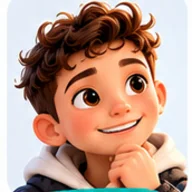
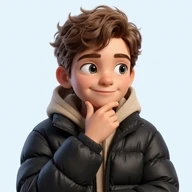
Guia grátis por e-mail (MailerLite), políticas atualizadas e retratos novos da Turminha
- /livro/: formulário do guia envia ao MailerLite; download sem cadastro continua; aceite separado
- Políticas do livro e do site citam o MailerLite
- Retratos novos de Caio, Vinícius e Letícia (jogo v4.5)

diff --git a/livro/index.html b/livro/index.html
@@ -56,7 +56,8 @@
 <p style="margin: 0; font-size: 14px; color: #3D4F66">Acesso imediato no Pix e no cartão · PDF e EPUB · Garantia de 7 dias</p>
 </div>
 <!-- Espaço do vídeo de vendas (VSL): decisão do Rodrigo em 17/11, "tirar até gravar". Até o vídeo chegar, fica só a capa.
-     Quando o vídeo existir: voltar o bloco do vídeo (cópia em referencia/index-antes-da-revisao.html) e o título "Assista antes de decidir" -->
+     Quando o vídeo existir: voltar o bloco do vídeo (cópia em referencia/index-antes-da-revisao.html) e o título "Assista antes de decidir".
+     O bloco do vídeo leva id="video" e scroll-margin-top: 24px (pedido da Mídia paga: o anúncio da VSL abre /livro/?...&utm_content=vsl#video) -->
 <div class="h-video" style="width: 100%; max-width: 880px; display: flex; justify-content: center; margin-top: 6px">
 <img src="assets/capa-ebook.webp" width="600" height="900" fetchpriority="high" alt="Capa do livro O futuro financeiro do seu filho começa com você" style="width: min(70%, 260px); height: auto; display: block; border-radius: 8px; box-shadow: 0 16px 32px rgba(9, 39, 77, 0.3)">
 </div>
@@ -350,15 +351,16 @@
 <label style="flex: 1 1 180px; min-width: 0; display: flex; flex-direction: column; gap: 6px; font-size: 14px; font-weight: 600">Seu nome<input type="text" name="nome" autocomplete="given-name" style="font: inherit; font-size: 16px; padding: 14px 16px; border: 1.5px solid #09274D; border-radius: 12px; background: #FFFFFF; color: #09274D; min-height: 50px; box-sizing: border-box; width: 100%"></label>
 <label style="flex: 2 1 240px; min-width: 0; display: flex; flex-direction: column; gap: 6px; font-size: 14px; font-weight: 600">Seu melhor e-mail<input type="email" name="email" autocomplete="email" style="font: inherit; font-size: 16px; padding: 14px 16px; border: 1.5px solid #09274D; border-radius: 12px; background: #FFFFFF; color: #09274D; min-height: 50px; box-sizing: border-box; width: 100%"></label>
 </div>
-<label style="display: flex; gap: 12px; align-items: flex-start; font-size: 14px; line-height: 1.5; color: #3D4F66; padding: 6px 0; cursor: pointer"><input type="checkbox" name="consentimento" style="width: 24px; height: 24px; margin: 0; flex: none; accent-color: #09274D"><span>Tenho 18 anos ou mais e aceito receber e-mails do Missão Dinheiro Club, conforme a <a href="politica-de-privacidade.html" target="_blank" rel="noopener">política de privacidade</a>. Posso cancelar quando quiser.</span></label>
+<label style="display: flex; gap: 12px; align-items: flex-start; font-size: 14px; line-height: 1.5; color: #3D4F66; padding: 6px 0; cursor: pointer"><input type="checkbox" name="consentimento" style="width: 24px; height: 24px; margin: 0; flex: none; accent-color: #09274D"><span>Tenho 18 anos ou mais e quero receber o guia e e-mails do Missão Dinheiro Club, conforme a <a href="politica-de-privacidade.html" target="_blank" rel="noopener">política de privacidade</a>. Posso cancelar quando quiser.</span></label>
 <div id="lead-error-wrap" hidden><p role="alert" style="margin: 0; font-size: 14px; font-weight: 600; color: #B42318" data-bind="leadError"></p></div>
-<button type="submit" style="align-self: flex-start; font: inherit; font-weight: 700; font-size: 17px; background: #FFC12E; color: #09274D; border: none; border-radius: 999px; padding: 16px 30px; min-height: 54px; cursor: pointer; display: inline-flex; align-items: center; gap: 10px"><svg width="20" height="20" viewBox="0 0 24 24" fill="none" stroke="#09274D" stroke-width="2.4" stroke-linecap="round" stroke-linejoin="round" aria-hidden="true"><path d="M12 4v11M7 10l5 5 5-5M5 20h14"/></svg>Quero baixar o guia grátis</button>
+<button type="submit" style="align-self: flex-start; font: inherit; font-weight: 700; font-size: 17px; background: #FFC12E; color: #09274D; border: none; border-radius: 999px; padding: 16px 30px; min-height: 54px; cursor: pointer; display: inline-flex; align-items: center; gap: 10px"><svg width="20" height="20" viewBox="0 0 24 24" fill="none" stroke="#09274D" stroke-width="2.4" stroke-linecap="round" stroke-linejoin="round" aria-hidden="true"><path d="M12 4v11M7 10l5 5 5-5M5 20h14"/></svg>Receber o guia por e-mail</button>
 </form>
+<p id="lead-alt" style="margin: 14px 0 0; font-size: 15px; color: #3D4F66">Prefere só baixar, sem cadastro? <a href="assets/guia-gratuito-3-descobertas.pdf" download data-guia style="color: #09274D; font-weight: 600">Baixar o PDF</a></p>
 </div>
 <div id="lead-sent" hidden>
 <div role="status" style="background: #E6F7F7; border-radius: 18px; padding: 22px 24px; display: flex; flex-direction: column; gap: 12px">
 <p style="margin: 0; font-family: Nunito, sans-serif; font-weight: 800; font-size: 22px; color: #09274D">Pronto, <span data-bind="firstName"></span>! Seu guia está liberado.</p>
-<p id="lead-sent-copy" style="margin: 0; font-size: 16px; line-height: 1.55; color: #24384F">Também enviamos uma cópia para <strong data-bind="leadEmail"></strong>. Se não aparecer, confira a caixa de spam ou promoções.</p>
+<p id="lead-sent-copy" style="margin: 0; font-size: 16px; line-height: 1.55; color: #24384F">Também enviamos o guia para <strong data-bind="leadEmail"></strong>. Se ele não chegar em alguns minutos, confira a caixa de spam ou promoções.</p>
 <a href="assets/guia-gratuito-3-descobertas.pdf" download data-guia style="align-self: flex-start; background: #09274D; color: #FFFFFF; text-decoration: none; font-weight: 700; font-size: 16px; padding: 14px 24px; border-radius: 999px; min-height: 50px; box-sizing: border-box; display: inline-flex; align-items: center">Baixar o PDF agora</a>
 </div>
 </div>

diff --git a/livro/politica-de-privacidade.html b/livro/politica-de-privacidade.html
@@ -21,7 +21,7 @@ a{color:#09274D} .aviso{background:#FFC12E;color:#09274D;font-weight:700;padding
 <main>
 <a class="voltar" href="index.html">Voltar ao site</a>
 <h1>Política de privacidade</h1>
-<p><em>Última atualização: 17 de novembro de 2026</em></p>
+<p><em>Última atualização: 18 de novembro de 2026</em></p>
 <h2>1. Quem somos</h2>
 <p>Este site é do projeto Missão Dinheiro Club, de Rodrigo Brito da Silva Santos, que é o controlador dos dados pessoais coletados aqui.</p>
 <p>Contato para assuntos de privacidade:</p>
@@ -30,7 +30,7 @@ a{color:#09274D} .aviso{background:#FFC12E;color:#09274D;font-weight:700;padding
 </ul>
 <h2>2. Quais dados coletamos</h2>
 <ul>
-<li><strong>Guia gratuito:</strong> é baixado direto, sem cadastro. Se um dia passarmos a pedir e-mail, esta política será atualizada antes.</li>
+<li><strong>Guia gratuito e e-mails:</strong> o guia pode ser baixado sem cadastro. Se você preferir recebê-lo por e-mail, pedimos o e-mail e, se quiser, o primeiro nome, com o seu consentimento (a caixa vem desmarcada) e a confirmação de que você tem 18 anos ou mais.</li>
 <li><strong>Compra:</strong> os dados de pagamento e de cadastro são coletados e tratados pela plataforma de pagamento Hotmart, conforme a política de privacidade dela. Nós recebemos apenas o necessário para entregar o produto e prestar suporte, como nome, e-mail e o produto comprado.</li>
 <li><strong>Navegação:</strong> dados técnicos e de uso, como páginas visitadas, tipo de aparelho e origem da visita, pelo Google Analytics 4, só se você aceitar no aviso de cookies. Os recursos de anúncios do Google ficam desligados. Detalhes na página de <a href="../privacidade/">privacidade do site</a>.</li>
 <li><strong>Origem da visita:</strong> Se você chega por um link de divulgação (com "utm" no endereço), o site guarda nesta aba do navegador só o canal, como "google", "meta" ou "organico", e o envia à Hotmart no link de compra, para sabermos de onde vêm as vendas. Não é cookie, não identifica você e é apagado quando a aba é fechada.</li>
@@ -40,6 +40,7 @@ a{color:#09274D} .aviso{background:#FFC12E;color:#09274D;font-weight:700;padding
 <ul>
 <li>Entregar o produto comprado e prestar suporte, para cumprir o contrato.</li>
 <li>Medir e melhorar o site, com o seu consentimento.</li>
+<li>Enviar o guia e uma sequência curta de e-mails sobre educação financeira e o livro, com o seu consentimento. Todo e-mail tem um link para sair da lista.</li>
 <li>Cumprir obrigações legais.</li>
 </ul>
 <h2>4. Com quem compartilhamos</h2>
@@ -47,6 +48,7 @@ a{color:#09274D} .aviso{background:#FFC12E;color:#09274D;font-weight:700;padding
 <ul>
 <li>a plataforma de pagamento Hotmart;</li>
 <li>a hospedagem do site, GitHub Pages (GitHub);</li>
+<li>a ferramenta de e-mail MailerLite, que guarda a lista e envia os e-mails, só se você se inscrever;</li>
 <li>a ferramenta de medição Google Analytics 4 (Google), só com o seu aceite.</li>
 </ul>
 <p>Alguns desses serviços podem armazenar dados fora do Brasil, com as garantias previstas na LGPD.</p>
@@ -54,6 +56,7 @@ a{color:#09274D} .aviso{background:#FFC12E;color:#09274D;font-weight:700;padding
 <h2>5. Por quanto tempo guardamos</h2>
 <ul>
 <li>Os dados de compra ficam guardados pelo prazo exigido por lei.</li>
+<li>O e-mail e o nome da lista ficam guardados até você sair da lista ou pedir para apagar.</li>
 </ul>
 <p>Depois disso, os dados são apagados ou anonimizados.</p>
 <h2>6. Seus direitos</h2>

diff --git a/livro/main.js b/livro/main.js
@@ -178,24 +178,39 @@
       var email = (form.elements.email.value || '').trim();
       var consent = form.elements.consentimento.checked;
       if (!/^[^\s@]+@[^\s@]+\.[^\s@]+$/.test(email)) { showError('Digite um e-mail válido, como nome@exemplo.com.', 'email'); return; }
-      if (!consent) { showError('Marque a caixa de consentimento para receber o guia.', 'consentimento'); return; }
+      if (!consent) { showError('Marque a caixa para receber o guia por e-mail, ou baixe o PDF sem cadastro logo abaixo.', 'consentimento'); return; }
       var btn = form.querySelector('button[type="submit"], button:not([type])');
       if (btn) btn.disabled = true;
       var done = function () {
-        bind({ firstName: nome.split(' ')[0] || 'tudo certo', leadEmail: email });
+        bind({ leadEmail: email });
+        // Sem nome: "Pronto! Seu guia está liberado." (sem vírgula solta)
+        var primeiro = nome.split(' ')[0];
+        var titulo = sentWrap.querySelector('p');
+        if (titulo) titulo.textContent = primeiro ? 'Pronto, ' + primeiro + '! Seu guia está liberado.' : 'Pronto! Seu guia está liberado.';
         formWrap.hidden = true;
         var copy = document.getElementById('lead-sent-copy');
         if (copy && !cfg.leadEndpoint) copy.hidden = true; // sem ferramenta de e-mail, não prometer envio
         sentWrap.hidden = false;
       };
       if (!cfg.leadEndpoint) { done(); return; }
-      fetch(cfg.leadEndpoint, {
-        method: 'POST',
-        headers: { 'Content-Type': 'application/json' },
-        body: JSON.stringify({ nome: nome, email: email, consentimento: true, origem: 'site-guia-gratis', data: new Date().toISOString() })
-      }).then(function (r) {
-        if (!r.ok) throw new Error('HTTP ' + r.status);
+      // Formulário do MailerLite (endereço público ".../forms/<id>/subscribe"; nenhuma chave fica no site).
+      // Sem double opt-in (no plano grátis a confirmação só sai em inglês): o aceite fica na caixa desmarcada do formulário.
+      var dados = new FormData();
+      dados.append('fields[email]', email);
+      if (nome) dados.append('fields[name]', nome);
+      dados.append('ml-submit', '1');
+      dados.append('anticsrf', 'true');
+      var concluir = function () {
+        // Medição: só chega ao Google se a pessoa aceitou os cookies (o medicao.js segura o resto). Sem dado pessoal.
+        if (window.gtag) window.gtag('event', 'generate_lead', { local: 'guia_gratis' });
         done();
+      };
+      fetch(cfg.leadEndpoint, { method: 'POST', body: dados }).then(function (r) {
+        if (!r.ok) throw new Error('HTTP ' + r.status);
+        return r.json().catch(function () { return {}; });
+      }).then(function (j) {
+        if (j && j.success === false) throw new Error('recusado');
+        concluir();
       }).catch(function () {
         if (btn) btn.disabled = false;
         showError('Não conseguimos enviar agora. Tente de novo em instantes.');

diff --git a/jogo/index.html b/jogo/index.html
@@ -65,9 +65,9 @@
       <svg class="m m5"><use href="#moeda"/></svg>
       <img src="assets/natty-oi.webp" width="222" height="560" alt="" class="p p-natty">
       <img src="assets/rodrigo-oi.webp" width="235" height="560" alt="" class="p p-rodrigo">
-      <img src="assets/vinicius-oi.webp" width="221" height="560" alt="" class="p p-vinicius">
-      <img src="assets/leticia-oi.webp" width="231" height="560" alt="" class="p p-leticia">
-      <img src="assets/caio-oi.webp" width="229" height="560" alt="" class="p p-caio">
+      <img src="assets/vinicius-oi.webp" width="215" height="560" alt="" class="p p-vinicius">
+      <img src="assets/leticia-oi.webp" width="237" height="560" alt="" class="p p-leticia">
+      <img src="assets/caio-oi.webp" width="245" height="560" alt="" class="p p-caio">
       <img src="assets/mel-oi.webp" width="268" height="560" alt="" class="p p-mel">
       <img src="assets/bia-oi.webp" width="310" height="560" alt="" class="p p-bia">
       <img src="assets/tiko-oi.webp" width="479" height="560" alt="" class="p p-tiko" fetchpriority="high">
@@ -297,7 +297,7 @@
       <a class="btn btn-escuro btn-grande" target="_blank" rel="noopener" href="https://wa.me/5521981133669?text=Ol%C3%A1!%20Quero%20ser%20uma%20fam%C3%ADlia%20fundadora%20da%20Miss%C3%A3o%20Dinheiro.">Quero participar pelo WhatsApp</a>
     </div>
     <div class="fundadoras-turma" aria-hidden="true">
-      <img src="assets/caio-oi.webp" width="229" height="560" alt="" loading="lazy" decoding="async">
+      <img src="assets/caio-oi.webp" width="245" height="560" alt="" loading="lazy" decoding="async">
       <img src="assets/bia-oi.webp" width="310" height="560" alt="" loading="lazy" decoding="async">
     </div>
   </div>

diff --git a/index.html b/index.html
@@ -65,9 +65,9 @@
       <svg class="m m5"><use href="#moeda"/></svg>
       <img src="assets/natty-oi.webp" width="222" height="560" alt="" class="p p-natty">
       <img src="assets/rodrigo-oi.webp" width="235" height="560" alt="" class="p p-rodrigo">
-      <img src="assets/vinicius-oi.webp" width="221" height="560" alt="" class="p p-vinicius">
-      <img src="assets/leticia-oi.webp" width="231" height="560" alt="" class="p p-leticia">
-      <img src="assets/caio-oi.webp" width="229" height="560" alt="" class="p p-caio">
+      <img src="assets/vinicius-oi.webp" width="215" height="560" alt="" class="p p-vinicius">
+      <img src="assets/leticia-oi.webp" width="237" height="560" alt="" class="p p-leticia">
+      <img src="assets/caio-oi.webp" width="245" height="560" alt="" class="p p-caio">
       <img src="assets/mel-oi.webp" width="268" height="560" alt="" class="p p-mel">
       <img src="assets/bia-oi.webp" width="310" height="560" alt="" class="p p-bia">
       <img src="assets/tiko-oi.webp" width="479" height="560" alt="" class="p p-tiko" fetchpriority="high">

diff --git a/privacidade/index.html b/privacidade/index.html
@@ -56,6 +56,9 @@
   <h2>A Trilha Dinheiro</h2>
   <p>A Trilha Dinheiro fica em outro endereço e tem as regras dela. Ela cria um código anônimo e envia só dados de uso, como lições feitas, sem nome, e-mail ou telefone. Dá para desligar o envio no rodapé do jogo.</p>
 
+  <h2>Guia grátis por e-mail</h2>
+  <p>Na página do livro, o guia grátis pode ser baixado sem cadastro. Se você preferir recebê-lo por e-mail, pedimos o e-mail e, se quiser, o primeiro nome, só com o seu consentimento e para quem tem 18 anos ou mais. A lista fica na ferramenta de e-mail MailerLite, que pode guardar os dados fora do Brasil. Você pode sair da lista quando quiser, pelo link que vai em todo e-mail. Detalhes na <a href="../livro/politica-de-privacidade.html">política de privacidade do livro</a>.</p>
+
   <h2>Hospedagem</h2>
   <p>O site é hospedado no GitHub Pages, que pode registrar dados técnicos de acesso, como o endereço IP, por segurança, conforme a política do GitHub.</p>
 

diff --git a/livro/config.js b/livro/config.js
@@ -8,10 +8,10 @@ window.MDC_CONFIG = {
   checkoutUrl: 'https://pay.hotmart.com/F108547611O',
 
   // Para onde vão os cadastros do guia grátis.
-  // Pode ser o endpoint de formulário da ferramenta de e-mail (MailerLite, Brevo, RD Station...)
-  // ou uma função própria. O site envia um POST em JSON: { nome, email, consentimento, origem, data }.
+  // Endereço do formulário do MailerLite (termina em /subscribe). Não é segredo: nenhuma chave fica no site.
+  // O site envia fields[email] e fields[name]; a pessoa entra no grupo "Guia grátis" e a automação manda o e-mail 1 com o guia.
   // Enquanto estiver vazio, o cadastro só libera o download do PDF (nada é salvo).
-  leadEndpoint: '',
+  leadEndpoint: 'https://assets.mailerlite.com/jsonp/2805335/forms/204441931417126597/subscribe',
 
   // Link do PDF do guia grátis. Por padrão, o arquivo que já está na pasta assets.
   guiaPdfUrl: 'assets/guia-gratuito-3-descobertas.pdf'

diff --git a/livro/termos-de-uso.html b/livro/termos-de-uso.html
@@ -21,7 +21,7 @@ a{color:#09274D} .aviso{background:#FFC12E;color:#09274D;font-weight:700;padding
 <main>
 <a class="voltar" href="index.html">Voltar ao site</a>
 <h1>Termos de uso</h1>
-<p><em>Última atualização: 17 de novembro de 2026</em></p>
+<p><em>Última atualização: 18 de novembro de 2026</em></p>
 <h2>1. Sobre o produto</h2>
 <p>O e-book "O futuro financeiro do seu filho começa com você", de Rodrigo Brito da Silva Santos, e os bônus que o acompanham são produtos digitais.</p>
 <ul>
